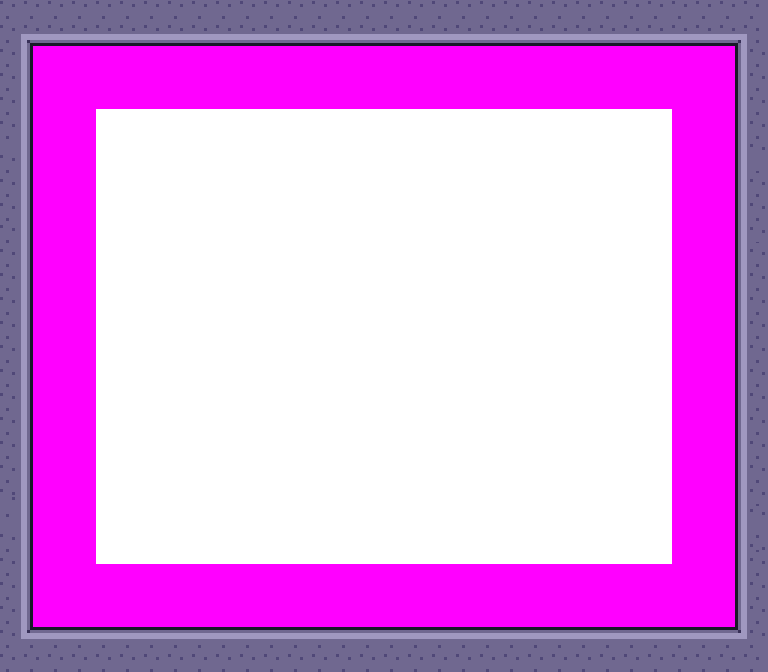
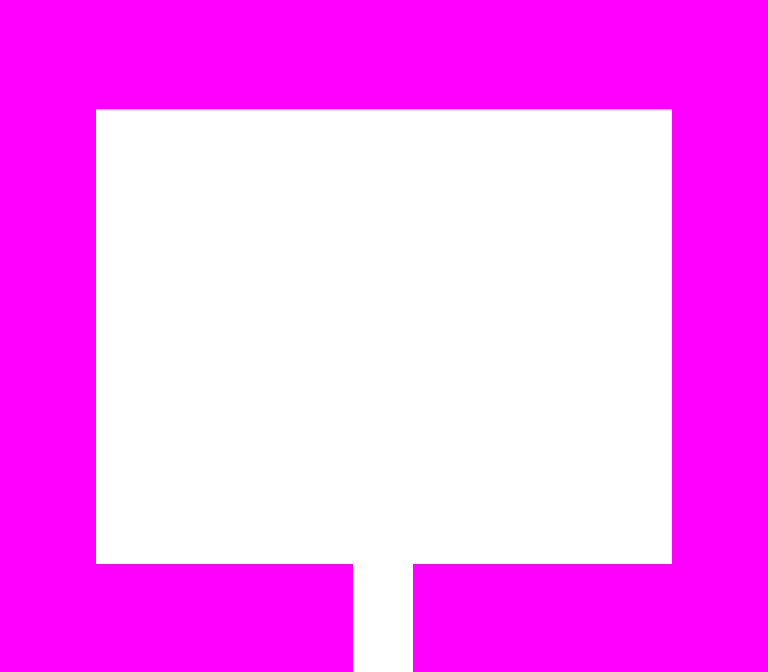
feat: update enemy hit arrow method(no leak, release check)

Changed region(s): [[0.0, 0.0, 1.0, 1.0]]

diff --git a/LinkToThePast/Zelda/DungeonGameMode.cpp b/LinkToThePast/Zelda/DungeonGameMode.cpp
@@ -31,18 +31,18 @@ void ACastleDungeonGameMode::BeginPlay()
 
 	CheckCollisionRoom();
 
-	TimeEventer.PushEvent(2.0f, [this]()
-		{
-			UIBox = GetWorld()->SpawnActor<AUIBox>();
-			UIBox->SetActorLocation(UEngineAPICore::GetCore()->GetMainWindow().GetWindowSize().Half());
+	//TimeEventer.PushEvent(2.0f, [this]()
+	//	{
+	//		UIBox = GetWorld()->SpawnActor<AUIBox>();
+	//		UIBox->SetActorLocation(UEngineAPICore::GetCore()->GetMainWindow().GetWindowSize().Half());
 
-			std::vector<std::string> StrValues;
-			StrValues.push_back("Link, I am going out for a");
-			StrValues.push_back("while. I will be back by morning.");
-			StrValues.push_back("Don't leave the house.");
+	//		std::vector<std::string> StrValues;
+	//		StrValues.push_back("Link, I am going out for a");
+	//		StrValues.push_back("while. I will be back by morning.");
+	//		StrValues.push_back("Don't leave the house.");
 
-			UIBox->CreateUIText(StrValues, 1.0f);
-		});
+	//		UIBox->CreateUIText(StrValues, 1.0f);
+	//	});
 
 	//UIBox->ShowUI();
 

diff --git a/LinkToThePast/Zelda/TitleManager.cpp b/LinkToThePast/Zelda/TitleManager.cpp
@@ -5,6 +5,7 @@
 #include <EngineBase/EngineMath.h>
 #include <EngineCore/EngineAPICore.h>
 #include <EngineCore/SpriteRenderer.h>
+#include <EnginePlatform/EngineInput.h>
 
 ATitleManager::ATitleManager()
 {
@@ -240,6 +241,8 @@ void ATitleManager::StartTitle()
 
 	EnvRenderer->SetAlphafloat(1.0f);
 
+	CurTime = 0.0f;
+
 }
 
 
@@ -328,6 +331,17 @@ void ATitleManager::SwordLogo(float DeltaTime)
 
 void ATitleManager::Title(float DeltaTime)
 {
+	CurTime += DeltaTime;
+
+	if (CurTime > 1.5f)
+	{
+		if (true == UEngineInput::GetInst().IsDown(VK_SPACE) ||
+			true == UEngineInput::GetInst().IsDown(VK_RETURN))
+		{
+			UEngineAPICore::GetCore()->OpenLevel("LinkHouse");
+			StopSound();
+		}
+	}
 }
 
 void ATitleManager::ChangeState(ETitleState State)

diff --git a/LinkToThePast/Zelda/Arrow.cpp b/LinkToThePast/Zelda/Arrow.cpp
@@ -3,6 +3,7 @@
 #include "ContentsEnum.h"
 #include "BaseCharacter.h"
 #include "Room.h"
+#include "PlayerCharacter.h"
 
 #include <EngineBase/EngineMath.h>
 
@@ -39,6 +40,8 @@ void AArrow::BeginPlay()
 {
 	Super::BeginPlay();
 	ChangeState(EArrowState::THROW);
+
+	PlayerCharacter = dynamic_cast<APlayerCharacter*>(GetWorld()->GetPawn());
 
 }
 
@@ -170,6 +173,7 @@ void AArrow::Throw(float DeltaTime)
 		HitCharacter = Character;
 		PrevHitLocation = HitCharacter->GetActorLocation();
 		Collision->SetActive(false);
+		HitCharacter->TakeDamage(10, PlayerCharacter);
 		ChangeState(EArrowState::HIT);
 	}
 }

diff --git a/LinkToThePast/Zelda/PlayerDataManager.h b/LinkToThePast/Zelda/PlayerDataManager.h
@@ -241,13 +241,21 @@ private:
 	int CurrentKey = 3;
 	int MaxKey = 9;
 
-	bool WeaponActive[2]  ={
-		false,	// Lantern
-		false	// Bow
+	//bool WeaponActive[2]  ={
+	//	false,	// Lantern
+	//	false	// Bow
+	//};
+
+	//int CurrentSelectWeapon = -1;
+	//int WeaponCount = 0;
+
+	bool WeaponActive[2] = {
+	true,	// Lantern
+	true	// Bow
 	};
 
-	int CurrentSelectWeapon = -1;
-	int WeaponCount = 0;
+	int CurrentSelectWeapon = 0;
+	int WeaponCount = 2;
 
 	FVector2D LevelStartLocation = FVector2D::ZERO;
 	int LevelStartRoomIndex = -1;

diff --git a/LinkToThePast/Zelda/BossGameMode.cpp b/LinkToThePast/Zelda/BossGameMode.cpp
@@ -1,5 +1,6 @@
 #include "PreCompile.h"
 #include "BossGameMode.h"
+#include "Room.h"
 #include "ArmosKngiht_Control.h"
 
 #include <EngineCore/EngineAPICore.h>
@@ -45,4 +46,6 @@ void ABossGameMode::BeginPlayRoomActor()
 	RoomDataes.push_back({ { 0, 0 } ,{ 768, 672 } });
 
 	CreateRoomActor("CastleDungeonBoss", 0);
+
+	Roomes[0]->CreateEnvSprite("CastleDungeonBoss1Door1.png", FVector2D(320, 615), FVector2D(128, 57), ERenderOrder::FIRST_FLOOR_OBJ);
 }

diff --git a/LinkToThePast/Zelda/ZeldaCore.cpp b/LinkToThePast/Zelda/ZeldaCore.cpp
@@ -162,7 +162,7 @@ void UZeldaCore::BeginPlay()
 	UEngineAPICore::GetCore()->CreateLevel<ACastleDungeonGameMode, APlayerCharacter>("CastleDungeon");
 	UEngineAPICore::GetCore()->CreateLevel<ABossGameMode, APlayerCharacter>("Boss");
 
-	UEngineAPICore::GetCore()->OpenLevel("LinkHouse");
+	UEngineAPICore::GetCore()->OpenLevel("Boss");
 }
 
 void UZeldaCore::Tick()

diff --git a/LinkToThePast/Zelda/PlayerCharacter.cpp b/LinkToThePast/Zelda/PlayerCharacter.cpp
@@ -259,6 +259,12 @@ void APlayerCharacter::LevelChangeStart()
 		SetCurDirection(FVector2D::DOWN);
 		ChangeState(EPlayerState::Idle);
 	}
+	else if ("BOSS" == LevelName)
+	{
+		SetActorLocation({ 384, 626 });
+		SetCurDirection(FVector2D::UP);
+		ChangeState(EPlayerState::Idle);
+	}
 	
 }
 

diff --git a/LinkToThePast/Zelda/TitleGameMode.cpp b/LinkToThePast/Zelda/TitleGameMode.cpp
@@ -32,11 +32,4 @@ void ATitleGameMode::Tick(float DeltaTime)
 	{
 		ManagerActor->ChangeState(ETitleState::TITLE);
 	}
-
-	if (true == UEngineInput::GetInst().IsDown(VK_SPACE))
-	{
-		UEngineAPICore::GetCore()->OpenLevel("CastleDungeon");
-		ManagerActor->StopSound();
-	}
-
 }
